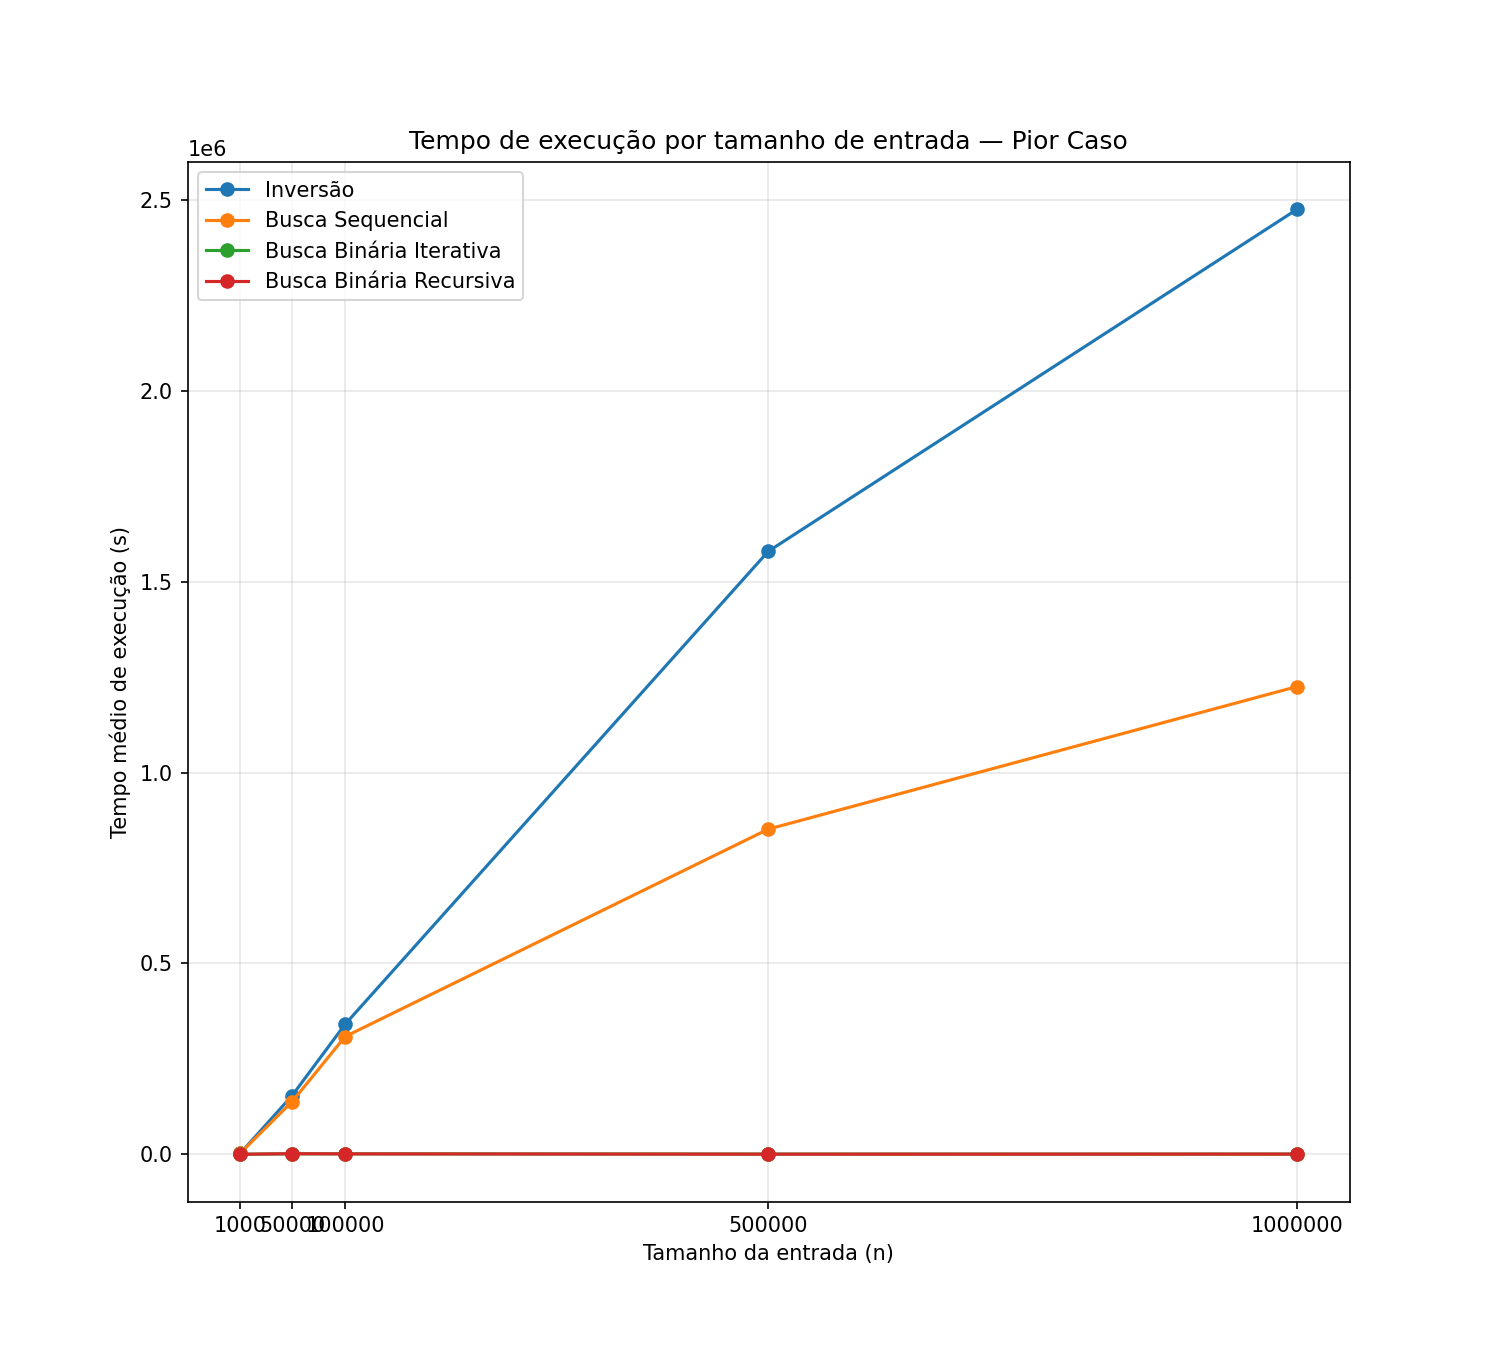
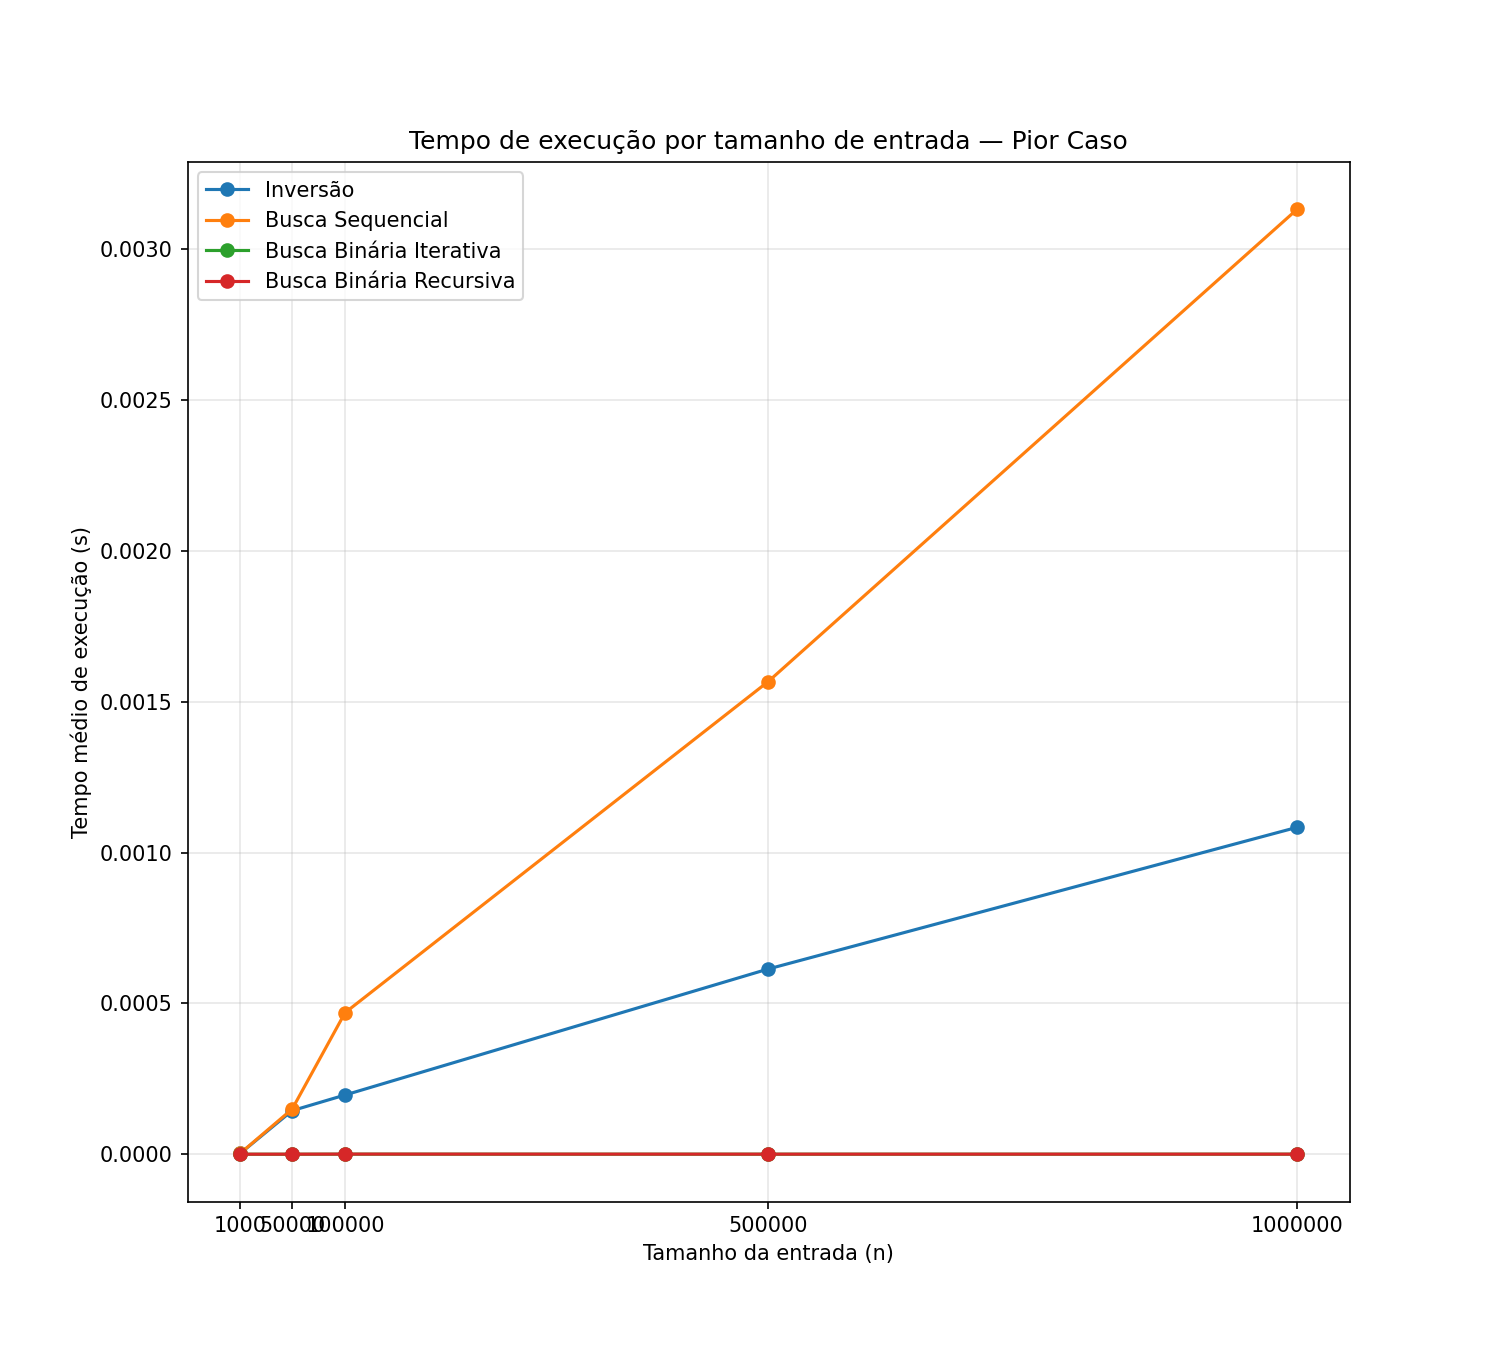
feat: adicionando a contagem de atribuições e comparações

diff --git a/trabalho1_bench.c b/trabalho1_bench.c
@@ -1,7 +1,10 @@
 #include <stdio.h>
 #include <time.h>
 
-long tempo_decorrido(struct timespec inicio, struct timespec fim) {
+int atribuicoes = 0;
+int comparacoes = 0;
+
+double tempo_decorrido(struct timespec inicio, struct timespec fim) {
     long segundos = fim.tv_sec - inicio.tv_sec;
     long nanosegundos = fim.tv_nsec - inicio.tv_nsec;
 
@@ -9,85 +12,133 @@ long tempo_decorrido(struct timespec inicio, struct timespec fim) {
         segundos -= 1;
         nanosegundos += 1000000000;
     }
-
-    return (segundos * 1000000000L) + nanosegundos;
+    return (double)segundos + ((double)nanosegundos / 1000000000.0);
 }
 
-void inversao(int v[], int n){
+void inversao(int v[], int n) {
     int temp;
-    for (int i = 0; i < n/2; i++){
+    atribuicoes++; // int i = 0
+    for (int i = 0; i < n/2; i++) {        
+        comparacoes++; // i<n/2
+        
         temp = v[i];
         v[i] = v[n-1-i];
         v[n-1-i] = temp;
+        atribuicoes += 3;
     }
+    comparacoes++; // i=n/2 ao acabar o for 
 }
 
-int busca_sequencial(int v[], int n, int busca){
-    for (int i = 0; i < n; i++){
+int busca_sequencial(int v[], int n, int busca) {
+    atribuicoes++; // int i = 0
+    for (int i = 0; i < n; i++) {
+        comparacoes++; // i<n
+
+        comparacoes++;
         if (v[i] == busca) return 1;
+        
     }
+    comparacoes++; // i=n ao acabar o for 
     return 0;
 }
 
-int busca_binaria_it(int v[], int n, int busca){
+int busca_binaria_it(int v[], int n, int busca) {
+
     int l = 0, r = n-1;
+    atribuicoes += 2;
+    
+    comparacoes++; 
     int crescente = v[0] < v[n - 1];
+    atribuicoes++;
 
-    while(l <= r){
+    while(1) {   
+
+        comparacoes++;    
+        if (!(l <= r)) break;
+        
         int m = l + (r - l) / 2;
+        atribuicoes++;
 
+        comparacoes++;
         if (v[m] == busca) return 1;
+        
 
-        if (crescente){
-            if (v[m] < busca) l = m + 1;
-            else r = m - 1;
+        comparacoes++;
+        if (crescente) {
+            comparacoes++;
+            if (v[m] < busca) {              
+                l = m + 1;
+                atribuicoes++;
+            } else {
+                r = m - 1;
+                atribuicoes++;
+            }
         } else {
-            if (v[m] > busca) l = m + 1;
-            else r = m - 1;
+            comparacoes++;
+            if (v[m] > busca) {
+                l = m + 1;
+                atribuicoes++;
+            } else {
+                r = m - 1;
+                atribuicoes++;
+            }
         }
+        
     }
     return 0;
 }
 
-int busca_binaria_rec(int v[], int l, int r, int busca, int n){
+int busca_binaria_rec(int v[], int l, int r, int busca, int n) {
+    comparacoes++;
     if (l > r) return 0;
 
+    comparacoes++;
     int crescente = v[0] < v[n - 1];
-    int m = l + (r - l) / 2;
+    atribuicoes++;
 
+    int m = l + (r - l) / 2;
+    atribuicoes++;
+
+    comparacoes++;
     if (v[m] == busca) return 1;
 
-    if (crescente){
+    comparacoes++;
+    if (crescente) {
+        comparacoes++;
         if (v[m] < busca) return busca_binaria_rec(v, m + 1, r, busca, n);
         return busca_binaria_rec(v, l, m - 1, busca, n);
     } else {
+        comparacoes++;
         if (v[m] > busca) return busca_binaria_rec(v, m + 1, r, busca, n);
         return busca_binaria_rec(v, l, m - 1, busca, n);
     }
 }
 
-int main(){
+int main() {
     int n, op = 0;
 
     scanf("%d", &n);
 
     int v[n];
-    for (int i = 0; i < n; i++){
+    for (int i = 0; i < n; i++) {
         scanf("%d", &v[i]);
     }
 
     struct timespec inicio, fim;
 
-    while(op != 5){
+    while (op != 5) {
         scanf("%d", &op);
         int x;
+        
+        atribuicoes = 0;
+        comparacoes = 0;
 
-        switch(op){
+        switch(op) {
             case 1:
                 clock_gettime(CLOCK_MONOTONIC, &inicio);
                 inversao(v, n);
                 clock_gettime(CLOCK_MONOTONIC, &fim);
-                printf("%ld\n", tempo_decorrido(inicio, fim)); 
+                printf("%.9f | %d | %d\n", tempo_decorrido(inicio, fim), atribuicoes, comparacoes);
                 break;
 
             case 2:
@@ -95,7 +146,7 @@ int main(){
                 clock_gettime(CLOCK_MONOTONIC, &inicio);
                 busca_sequencial(v, n, x);
                 clock_gettime(CLOCK_MONOTONIC, &fim);
-                printf("%ld\n", tempo_decorrido(inicio, fim)); 
+                printf("%.9f | %d | %d\n", tempo_decorrido(inicio, fim), atribuicoes, comparacoes); 
                 break;
 
             case 3:
@@ -103,7 +154,7 @@ int main(){
                 clock_gettime(CLOCK_MONOTONIC, &inicio);
                 busca_binaria_it(v, n, x);
                 clock_gettime(CLOCK_MONOTONIC, &fim);
-                printf("%ld\n", tempo_decorrido(inicio, fim)); 
+                printf("%.9f | %d | %d\n", tempo_decorrido(inicio, fim), atribuicoes, comparacoes);
                 break;
 
             case 4:
@@ -111,7 +162,7 @@ int main(){
                 clock_gettime(CLOCK_MONOTONIC, &inicio);
                 busca_binaria_rec(v, 0, n - 1, x, n);
                 clock_gettime(CLOCK_MONOTONIC, &fim);
-                printf("%ld\n", tempo_decorrido(inicio, fim)); 
+                printf("%.9f | %d | %d\n", tempo_decorrido(inicio, fim), atribuicoes, comparacoes);
                 break;
 
             case 5:

diff --git a/testes.py b/testes.py
@@ -14,6 +14,9 @@ def executar_teste(tam, opcao, busca_val):
         entrada = f"{tam}\n{elementos_vetor}\n{opcao}\n{busca_val}\n5\n"
 
     tempos = []
+    atrib = 0
+    comp = 0
+    
     for _ in range(EXECUCOES):
         resultado = subprocess.run(
             ["./trabalho1_bench"],
@@ -22,15 +25,22 @@ def executar_teste(tam, opcao, busca_val):
             capture_output=True
         )
 
-        tempo = float(resultado.stdout.strip())
+        
+        saida = resultado.stdout.strip().split("|")
+        tempo = float(saida[0].strip())
+        atrib = int(saida[1].strip())
+        comp = int(saida[2].strip())
+
         tempos.append(tempo)
 
-    return sum(tempos) / len(tempos)
+    tempo_medio = sum(tempos) / len(tempos)
+    return tempo_medio, atrib, comp
 
 
 def grafico_geral(resultados):
     plt.figure(figsize=(10, 9))
-    for nome, tempos in resultados.items():
+    for nome, res in resultados.items():
+        tempos = [r[0] for r in res]
         plt.plot(TAM_ENTRADAS, tempos, marker='o', label=nome)
 
     plt.xlabel("Tamanho da entrada (n)")
@@ -48,8 +58,11 @@ def grafico_geral(resultados):
 
 def grafico_binarias(resultados):
     plt.figure(figsize=(10, 9))
-    plt.plot(TAM_ENTRADAS, resultados["Busca Binária Iterativa"], marker='o', label="Busca Binária Iterativa")
-    plt.plot(TAM_ENTRADAS, resultados["Busca Binária Recursiva"], marker='o', label="Busca Binária Recursiva")
+    tempos_it = [d[0] for d in resultados["Busca Binária Iterativa"]]
+    tempos_rec = [d[0] for d in resultados["Busca Binária Recursiva"]]
+    
+    plt.plot(TAM_ENTRADAS, tempos_it, marker='o', label="Busca Binária Iterativa")
+    plt.plot(TAM_ENTRADAS, tempos_rec, marker='o', label="Busca Binária Recursiva")
     
     plt.xlabel("Tamanho da entrada (n)")
     plt.ylabel("Tempo médio de execução (s)")  
@@ -76,6 +89,7 @@ def main():
 
     for tam in TAM_ENTRADAS:
         print(f"testando para {tam}")
+        
         resultados["Inversão"].append(executar_teste(tam, 1, 0))
 
         pior_caso = tam + 1 
@@ -84,7 +98,15 @@ def main():
         resultados["Busca Binária Iterativa"].append(executar_teste(tam, 3, pior_caso))
         resultados["Busca Binária Recursiva"].append(executar_teste(tam, 4, pior_caso))
 
-    print(resultados)
+   
+    print("\n" + "="*80)
+    print(f"{'Operação':<26} | {'Tamanho':<10} | {'Tempo (s)':<15} | {'Atribuições':<12} | {'Comparações':<12}")
+    print("="*80)
+    for nome in resultados:
+        for i, tam in enumerate(TAM_ENTRADAS):
+            t, a, c = resultados[nome][i]
+            print(f"{nome:<26} | {tam:<10} | {t:<15.9f} | {a:<12} | {c:<12}")
+        print("-" * 80)
 
     grafico_geral(resultados)
     grafico_binarias(resultados)
